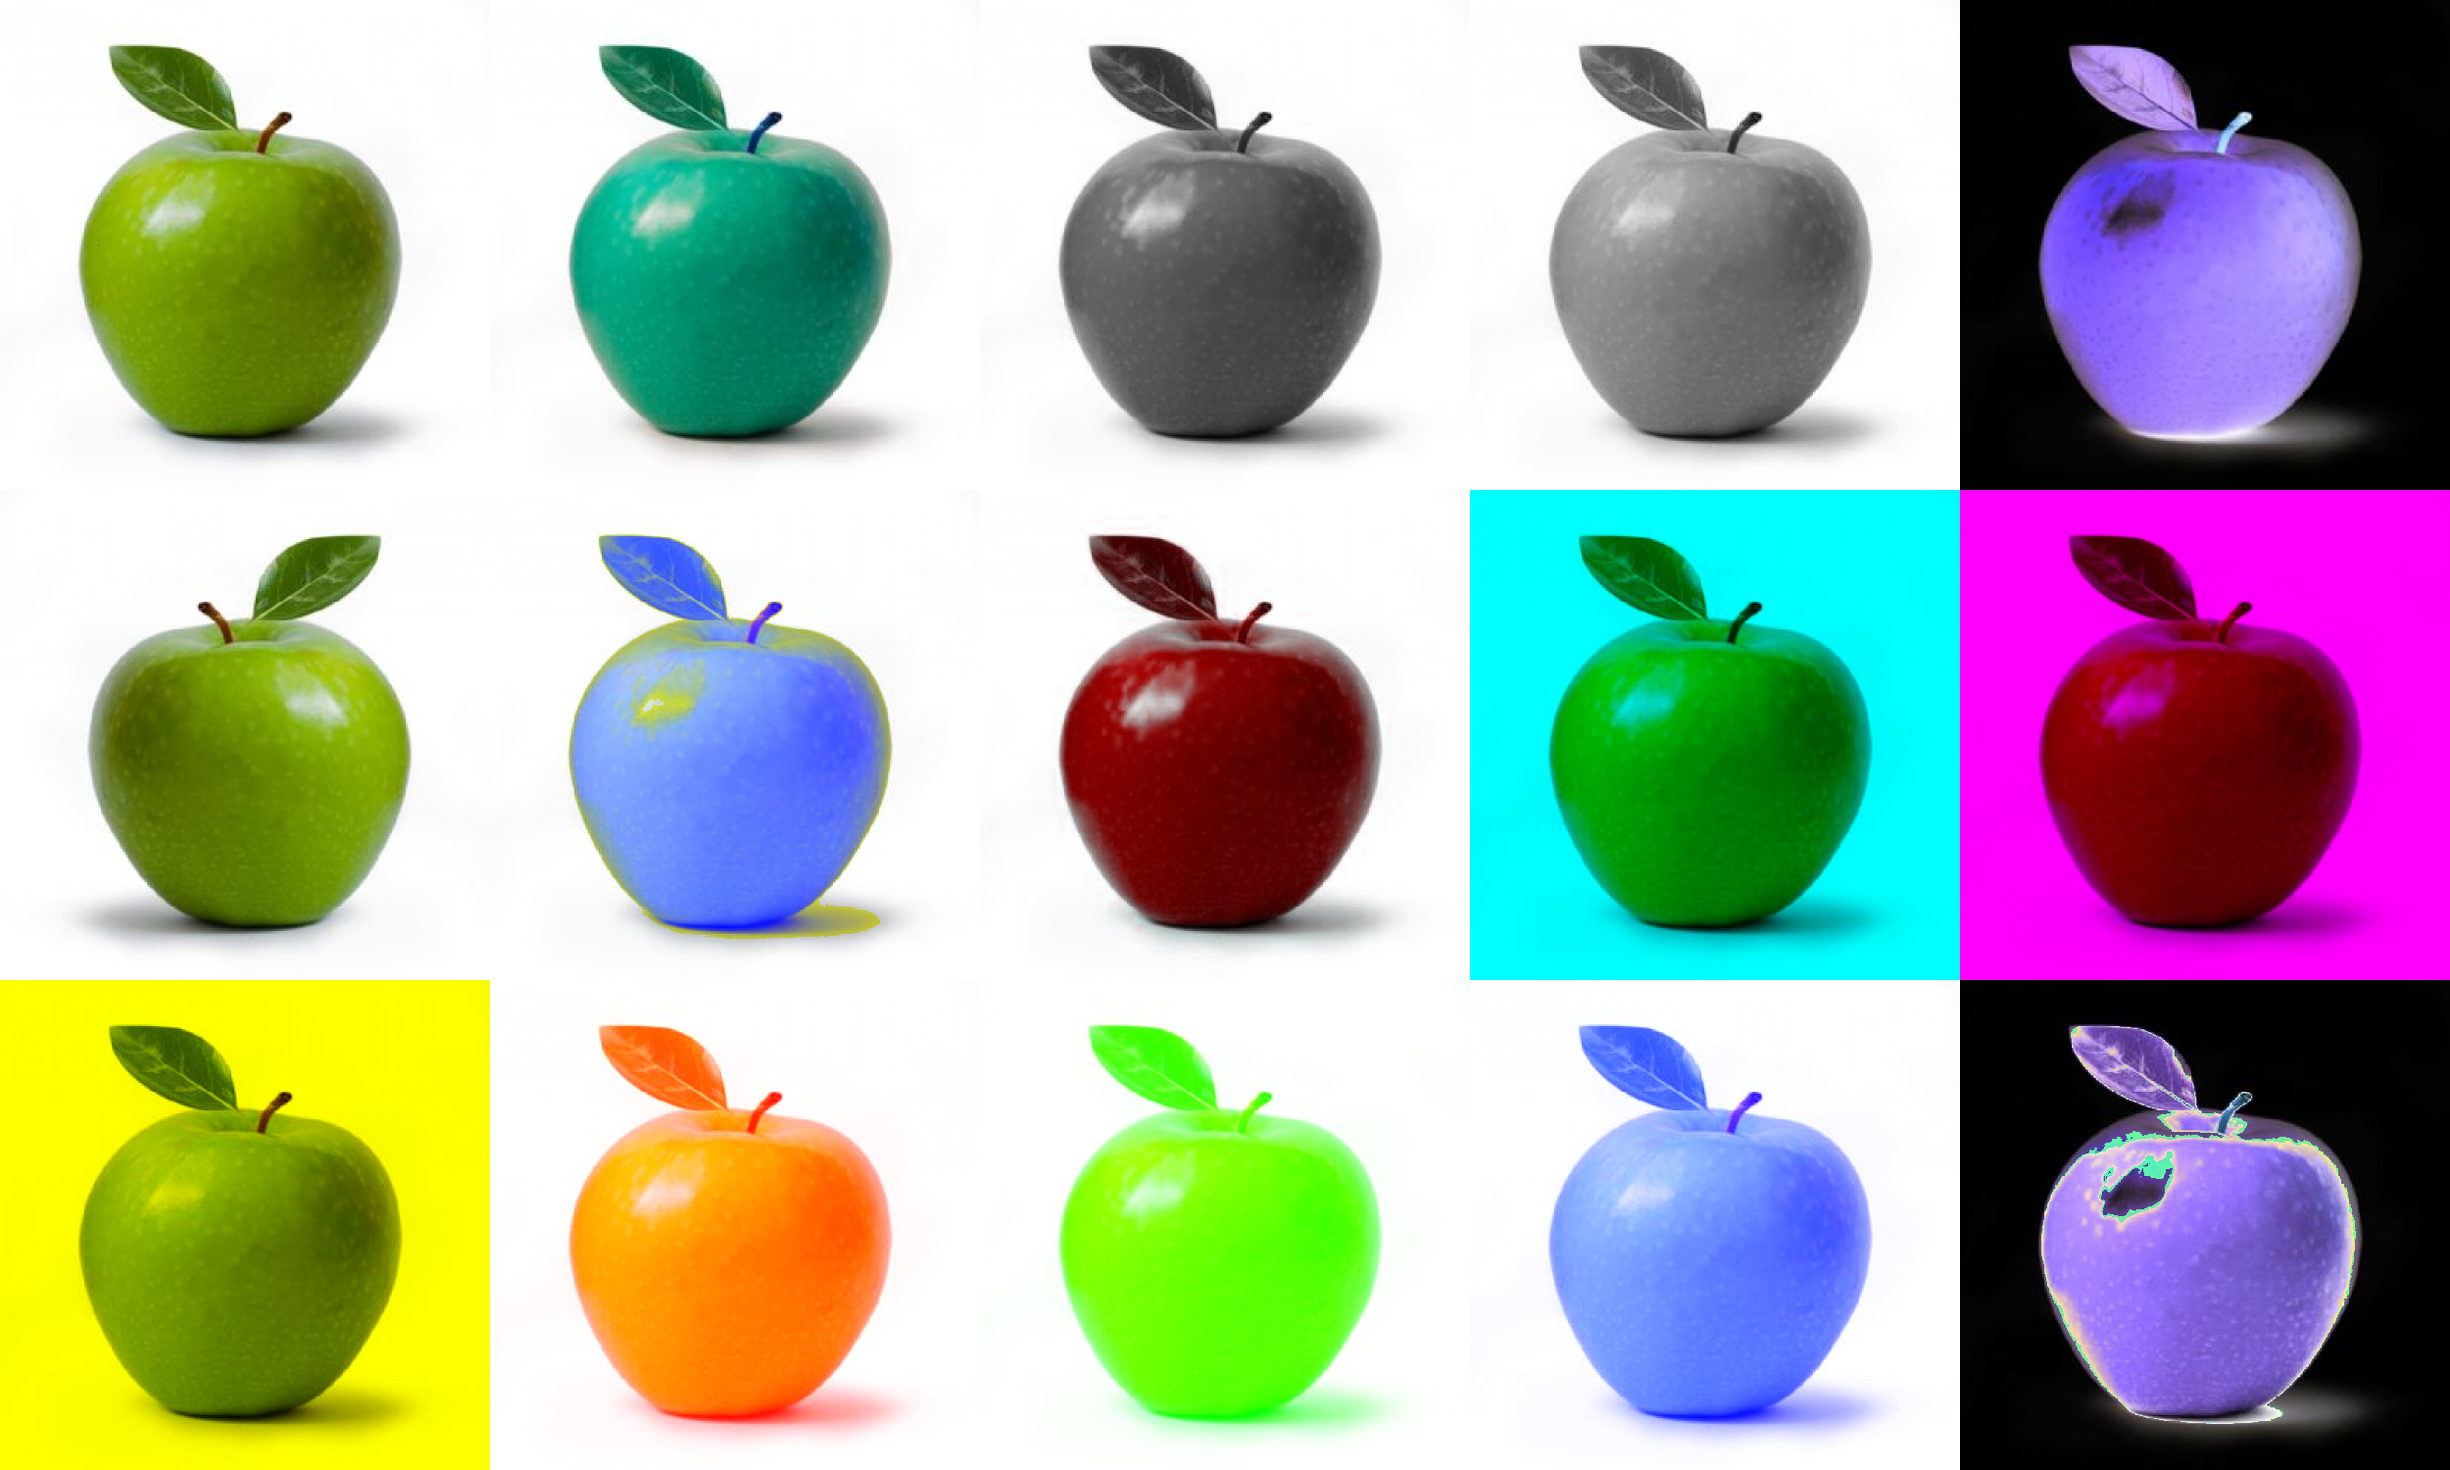
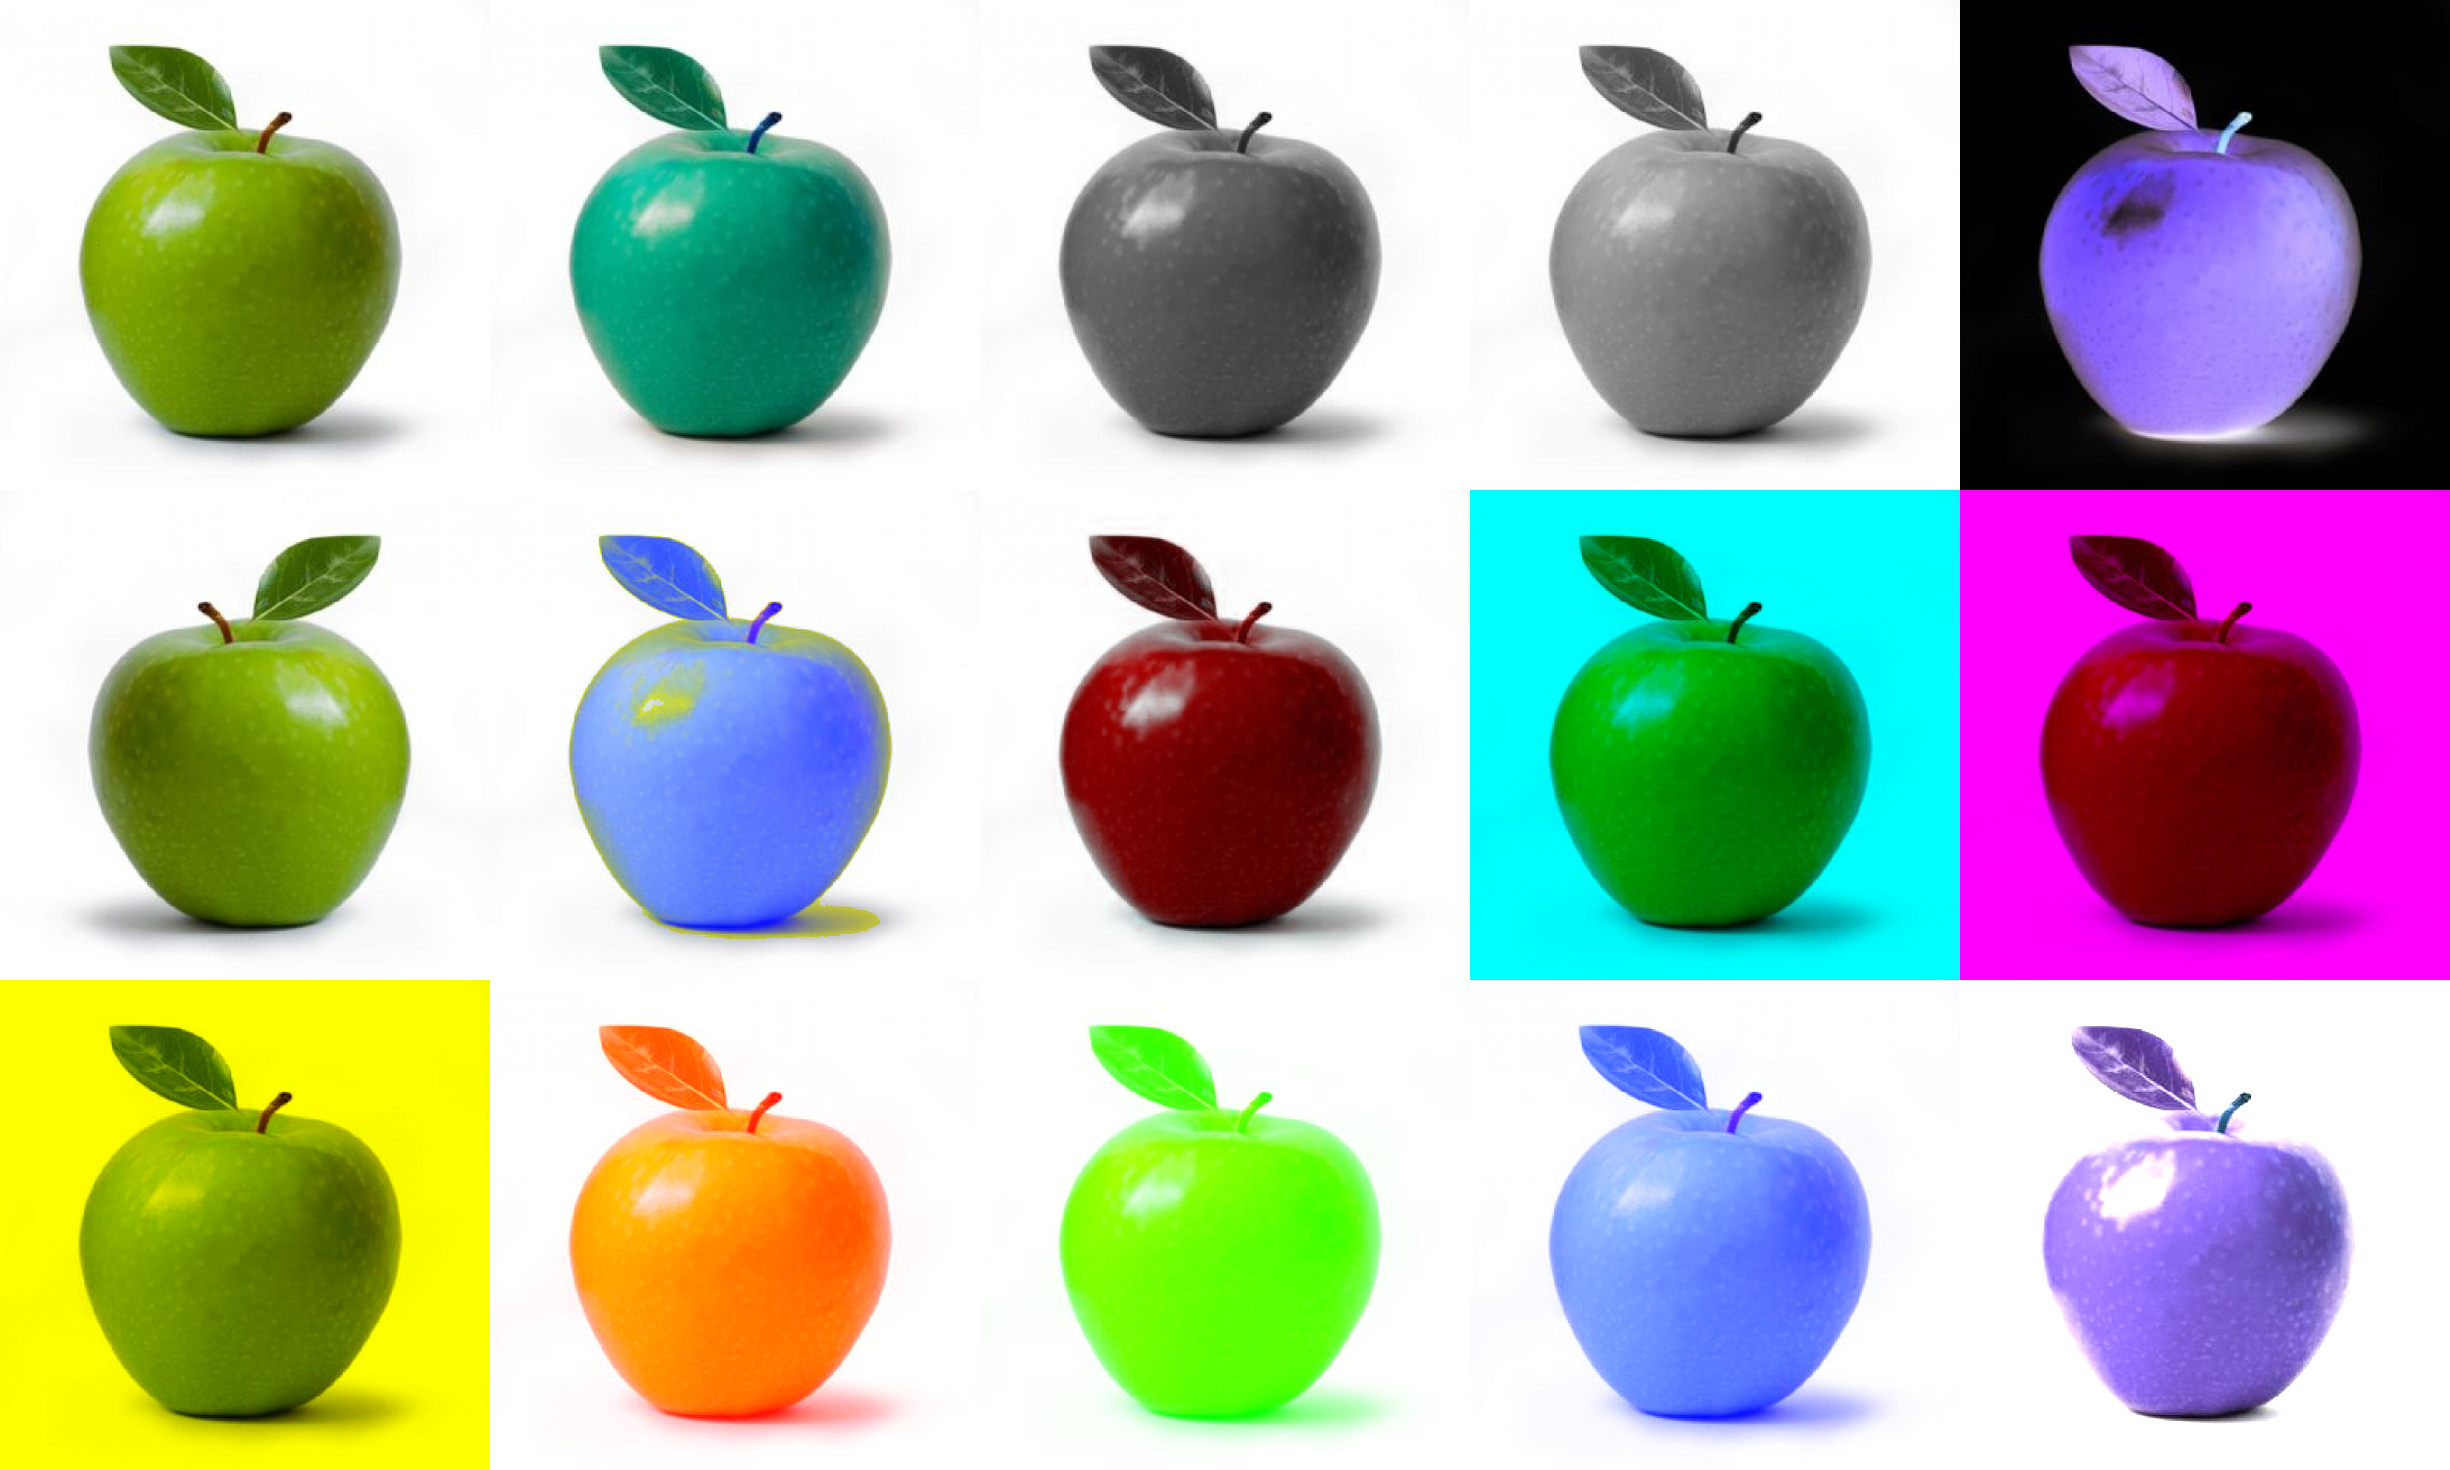
change 15th apple

Changed region(s): [[0.78, 0.644, 1.0, 1.0]]

diff --git a/SNT/Python/2022-03/Traitement d'image/TP_03-15.py b/SNT/Python/2022-03/Traitement d'image/TP_03-15.py
@@ -143,12 +143,12 @@ for y in range(height):
 
 img14.save('./OUTPUT_TP_03-05/output14.png', 'PNG')
 
-# Image random
+# addition des deux autres couleurs pour chaque couleur
 img15 = base_img.copy()
 for y in range(height):
     for x in range(width):
         r, g, b = img15.getpixel((x, y))
-        r, g, b = g+b if g+b <= 255 else 255-r, r+b if r+b <= 255 else 255-g, r+g if r+g <= 255 else 255-b
+        r, g, b = g+b if g+b <= 255 else 255, r+b if r+b <= 255 else 255, r+g if r+g <= 255 else 255
         img15.putpixel((x, y), (r, g, b))
 
 img15.save('./OUTPUT_TP_03-05/output15.png', 'PNG')
